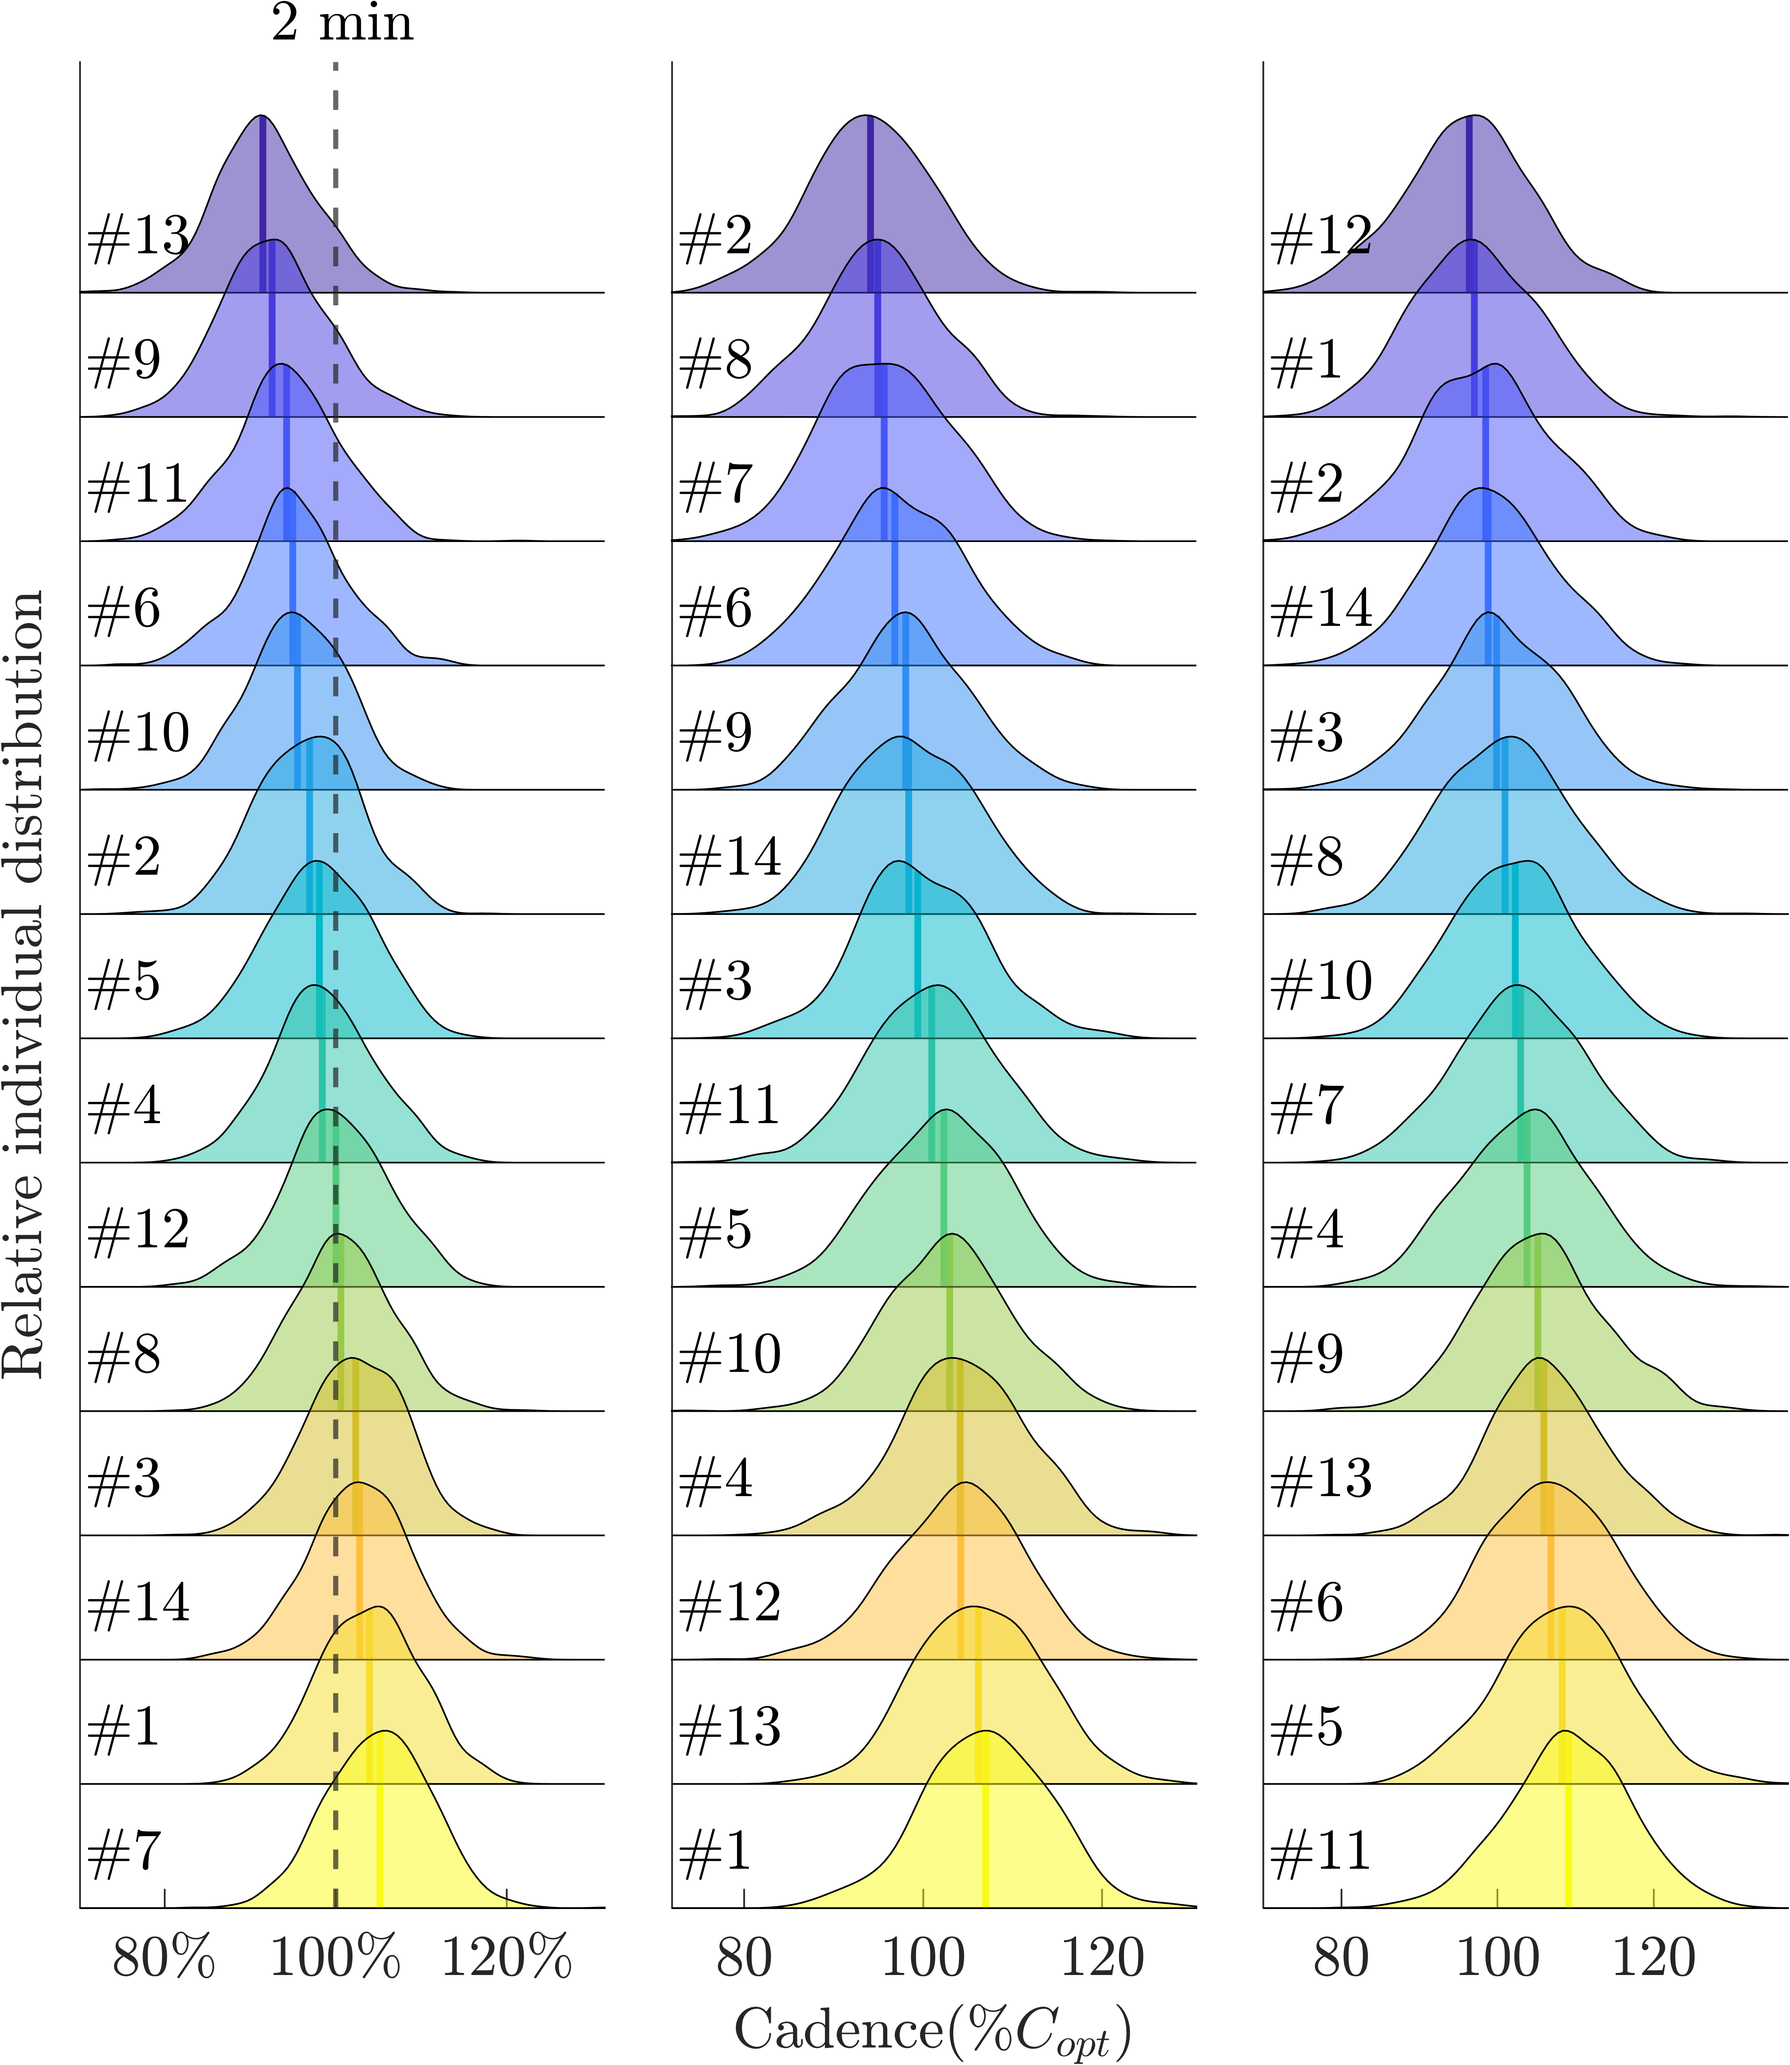
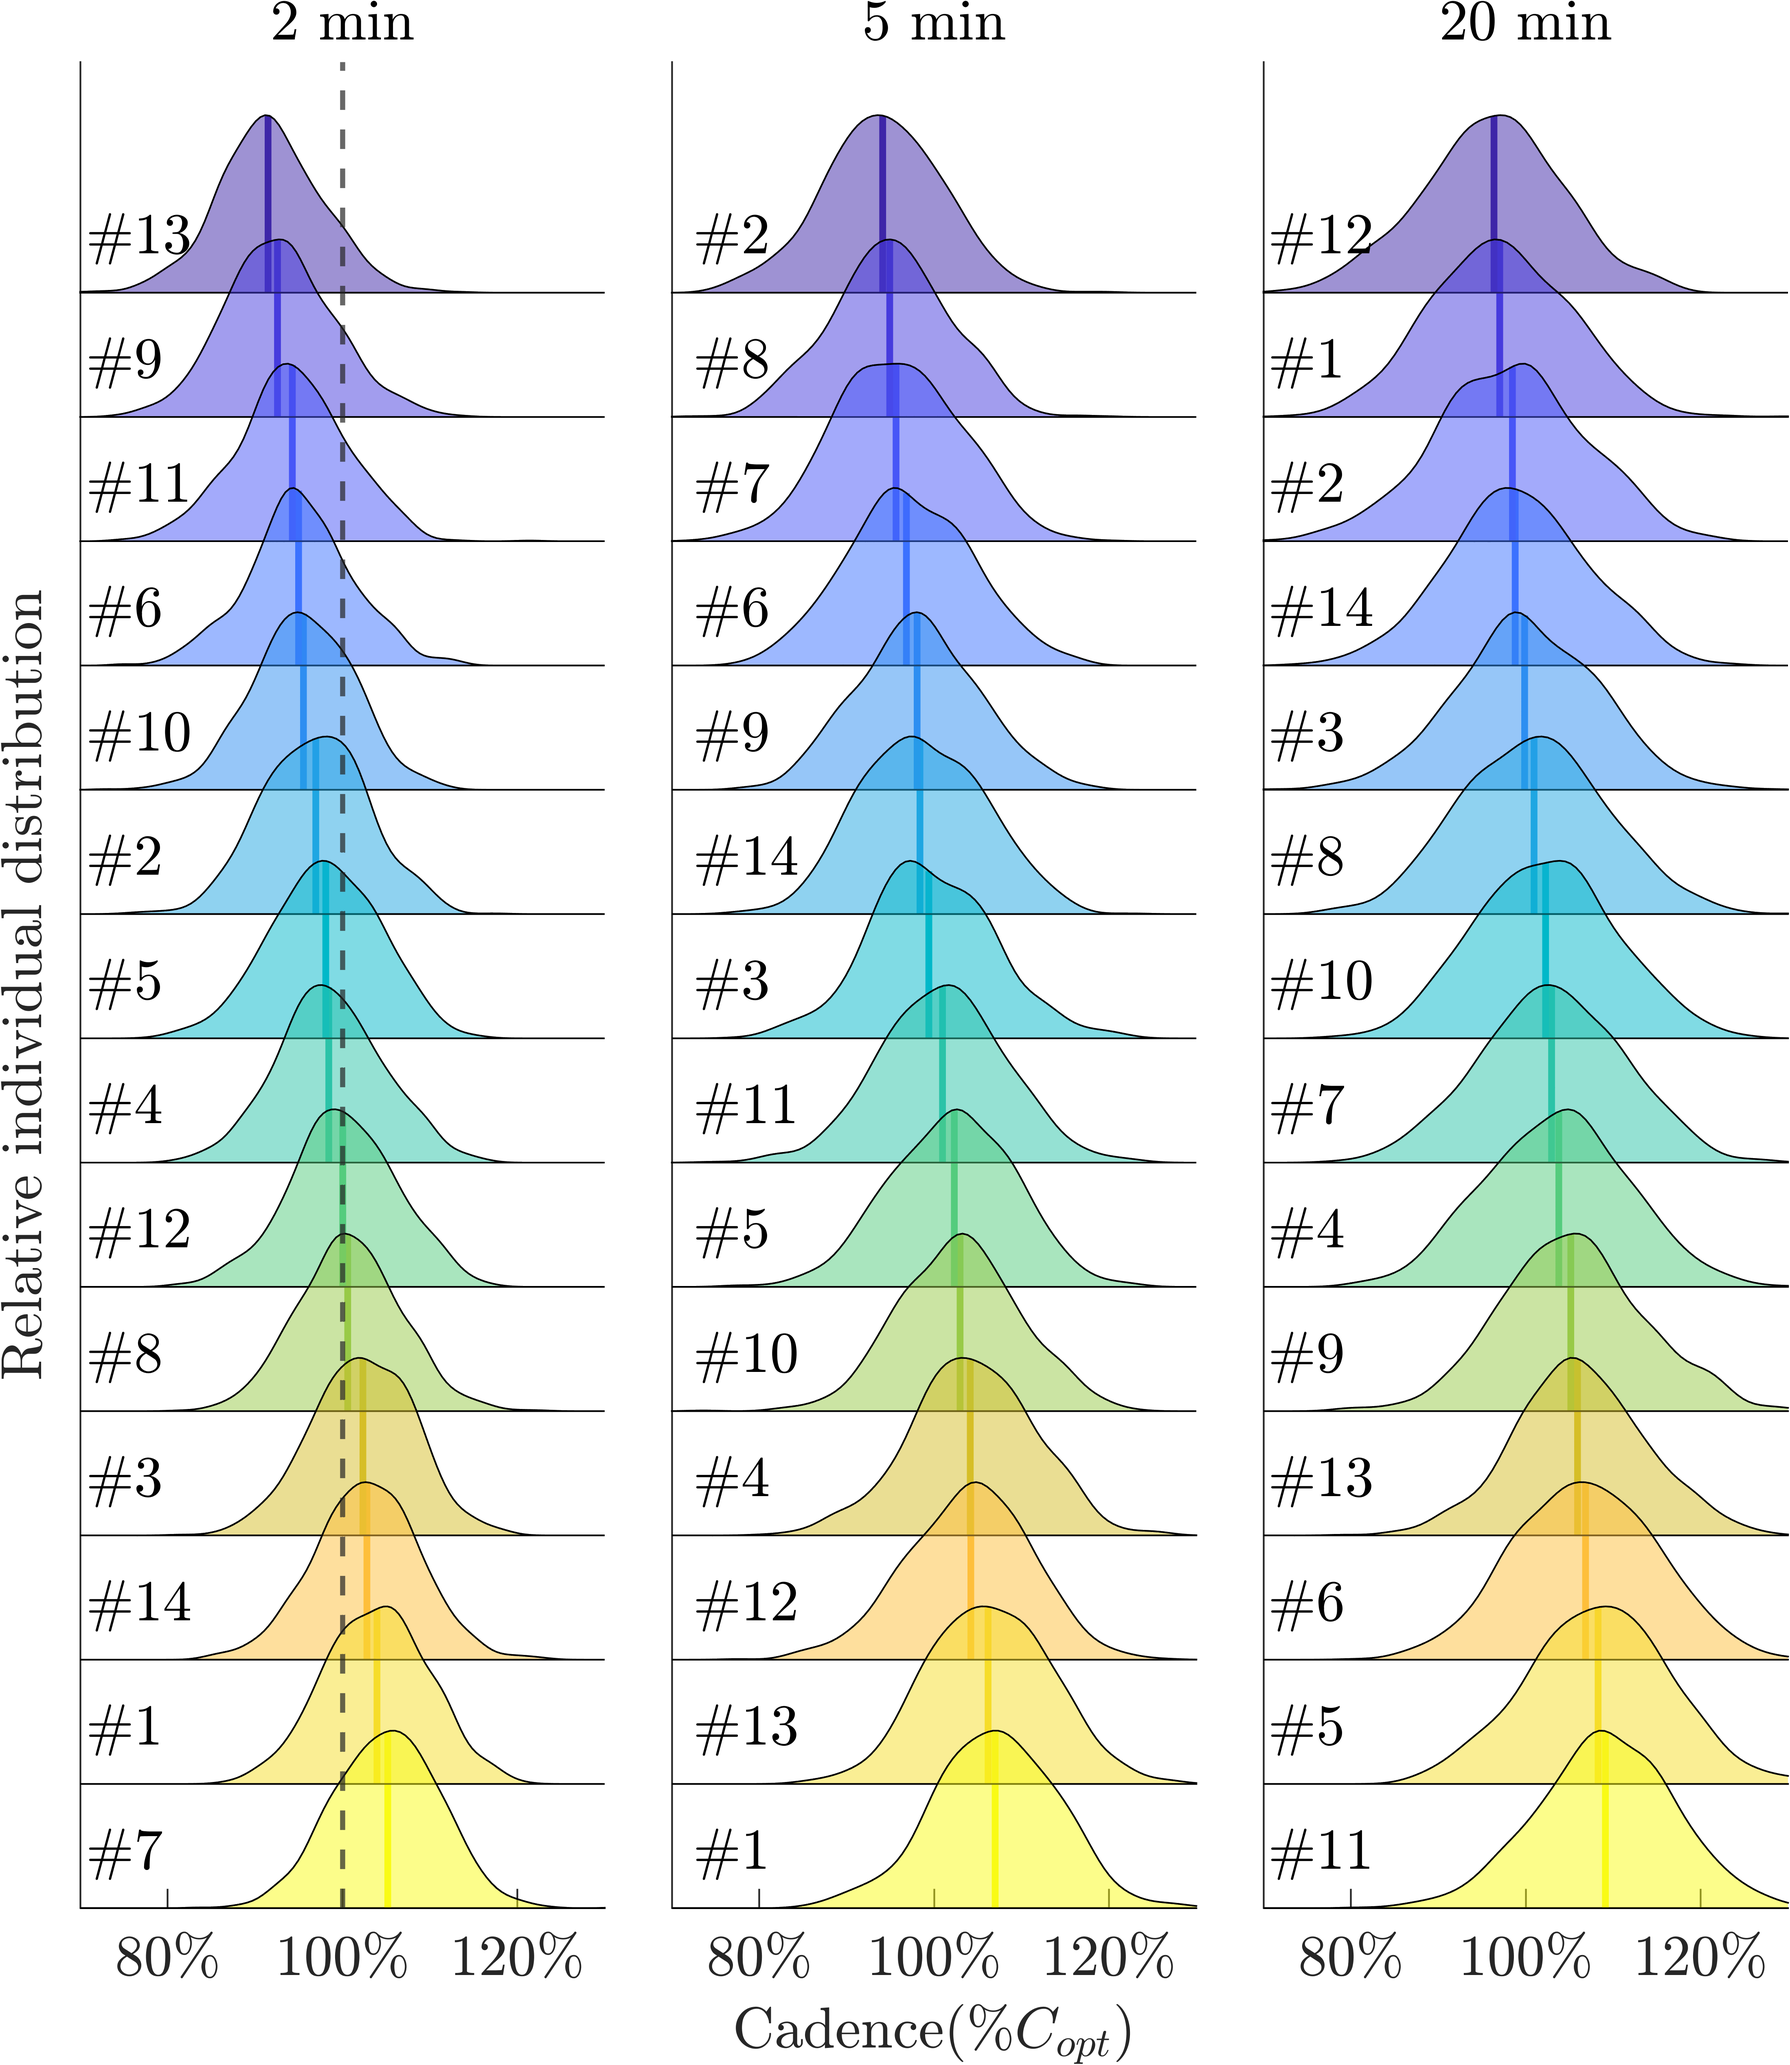
Add files via upload

diff --git a/exempleRidgeLinePlot.m b/exempleRidgeLinePlot.m
@@ -14,7 +14,8 @@ close all
 clc
 %% First we have to make our fake dataset
 % data = 14 subjects with 1000 cadence points expressed as % of optimal cadence for 3 different duration
-data = randomData(3,14);                                                    % randomData(number of conditions,number of participants)
+nbSuj = 14;
+data = randomData(3,nbSuj);                                                    % randomData(number of conditions,number of participants)
 
 % Copy data vizualisation from Bertron and al.
 tiledlayout(1,3,'TileSpacing','compact','Padding','compact')
@@ -25,22 +26,58 @@ ridgeLinePlot(data{1})
 xline(100,'LineStyle','--','LineWidth',1.5)
 title('2 min')
 ylabel('Relative individual distribution','Interpreter','latex')
-
+xlim([70 130])
 nexttile
 ridgeLinePlot(data{2})
+title('5 min')
 xlabel('Cadence(\%$C_{opt}$)')
+xticklabels(gca,{'80\%' '100\%' '120\%'})
+xlim([70 130])
+
 nexttile
 ridgeLinePlot(data{3})
+title('20 min')
+xticks([80,100,120])
+xticklabels(gca,{'80\%' '100\%' '120\%'})
+xlim([70 130])
+
 
 % Want to use your favorite color?
 figure
-ridgeLinePlot(data{1},autumn(width(data{1})))
+% col = cbrewer('seq','YlOrRd',nbSuj+10);
+col =     [1.0000    1.0000    0.8000
+    1.0000    0.9765    0.7412
+    1.0000    0.9529    0.6824
+    1.0000    0.9294    0.6275
+    1.0000    0.9059    0.5725
+    0.9961    0.8824    0.5176
+    0.9961    0.8510    0.4627
+    0.9961    0.8078    0.4039
+    0.9961    0.7529    0.3412
+    0.9961    0.6980    0.2980
+    0.9961    0.6549    0.2745
+    0.9922    0.6118    0.2549
+    0.9922    0.5529    0.2353
+    0.9922    0.4353    0.2000
+    0.9882    0.3059    0.1647
+    0.9686    0.2235    0.1412
+    0.9333    0.1569    0.1176
+    0.8902    0.1020    0.1098
+    0.8471    0.0549    0.1216
+    0.8000    0.0157    0.1373
+    0.7412         0    0.1490
+    0.6745         0    0.1490
+    0.5922         0    0.1490
+    0.5020         0    0.1490];
+
+ridgeLinePlot(data{1},col(4:end,:))
 
 % lets improve plot aesthetics
 h2 = findall(groot,'Type','figure');
 arrayfun(@aesthete,h2)
 % exportgraphics(h2(2),'gitHub_Exemple_RidgeLinePlot.png','Resolution','600')
 
+movegui(gcf,'east')
 % Function to change plot appearance
 function aesthete(h2)
     hfig= h2;  

diff --git a/ridgeLinePlot.m b/ridgeLinePlot.m
@@ -13,7 +13,7 @@ function ridgeLinePlot(data,colorMatrix)
 % @MatPab
 
 if nargin>1
-    colMat = colorMatrix;
+    colMat = colorMatrix(1:width(data),:);
 else
     colMat = parula(width(data));
 end
@@ -30,7 +30,7 @@ step = 1 - offset;
 horizontalPos = 0:step:width(data)*step-step;
 hold on
 % lets plot horizontal lines
-arrayfun(@(x) plot([0 1000],[x x],'k','LineWidth',.5),horizontalPos)
+arrayfun(@(x) plot([0.9*min(data,[],'all') 1.1*max(data,[],'all')],[x x],'k','LineWidth',.5),horizontalPos)
 
 
 % now, prepare data for distribution display
